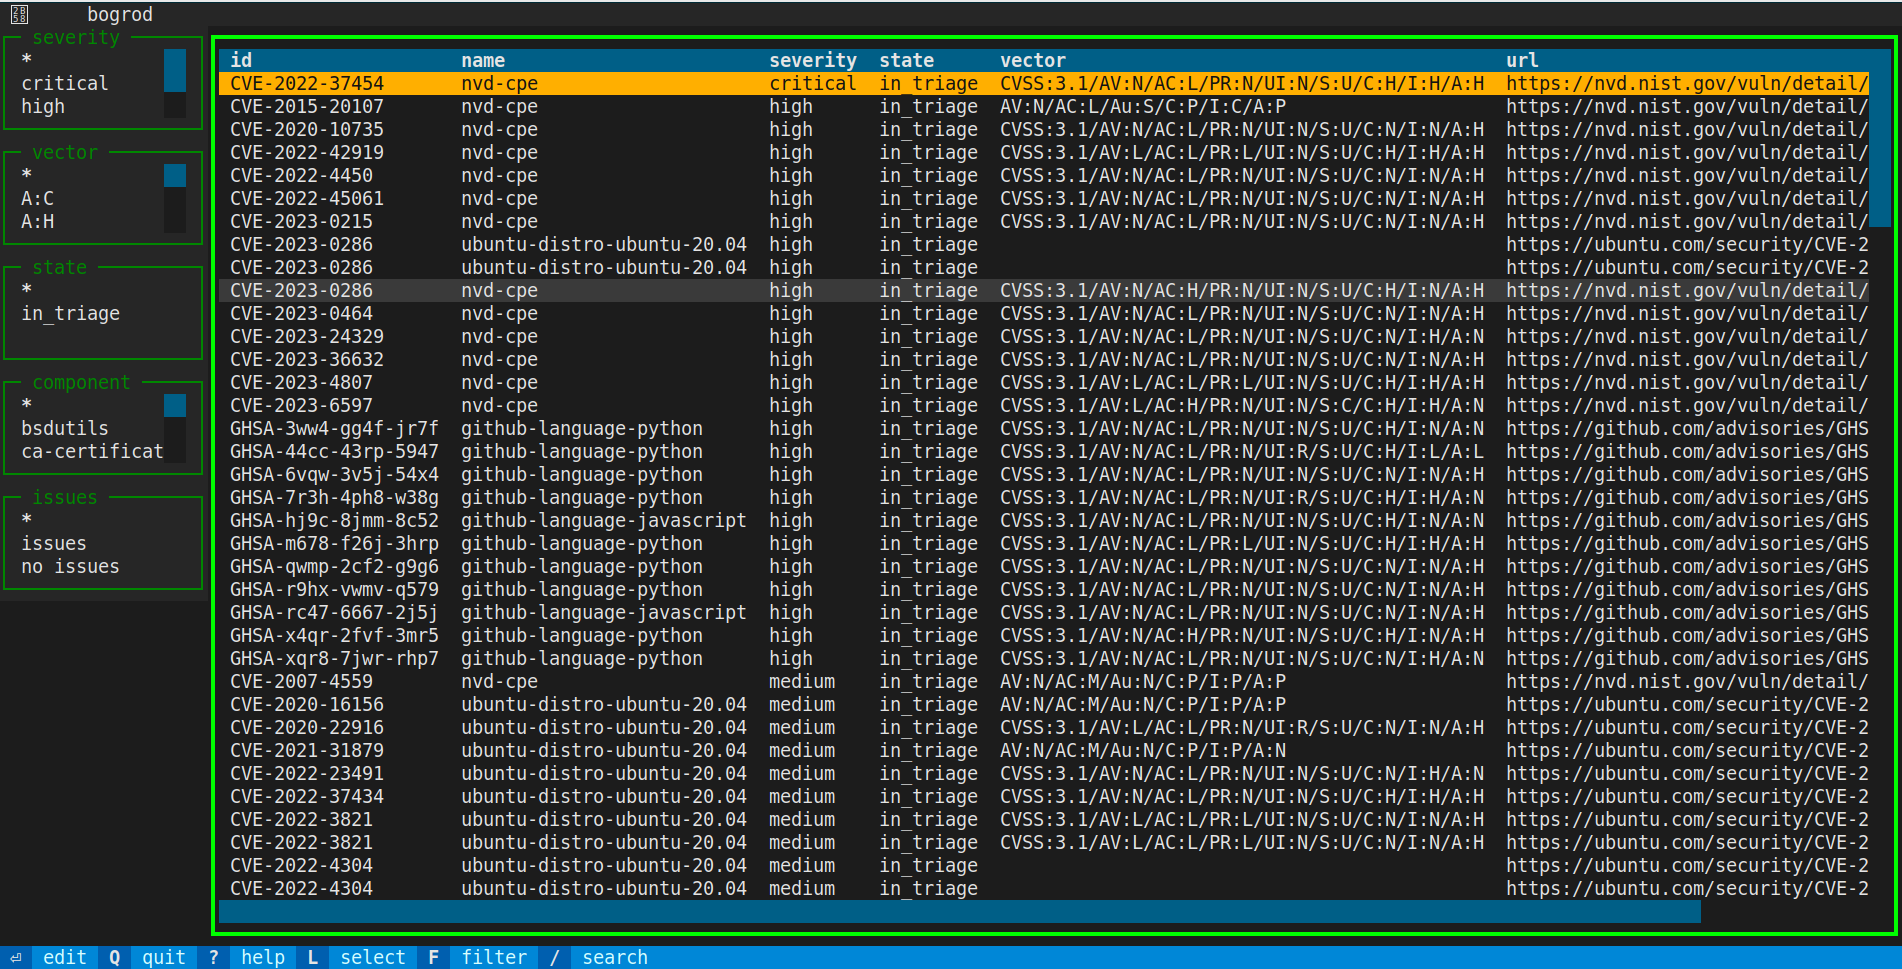
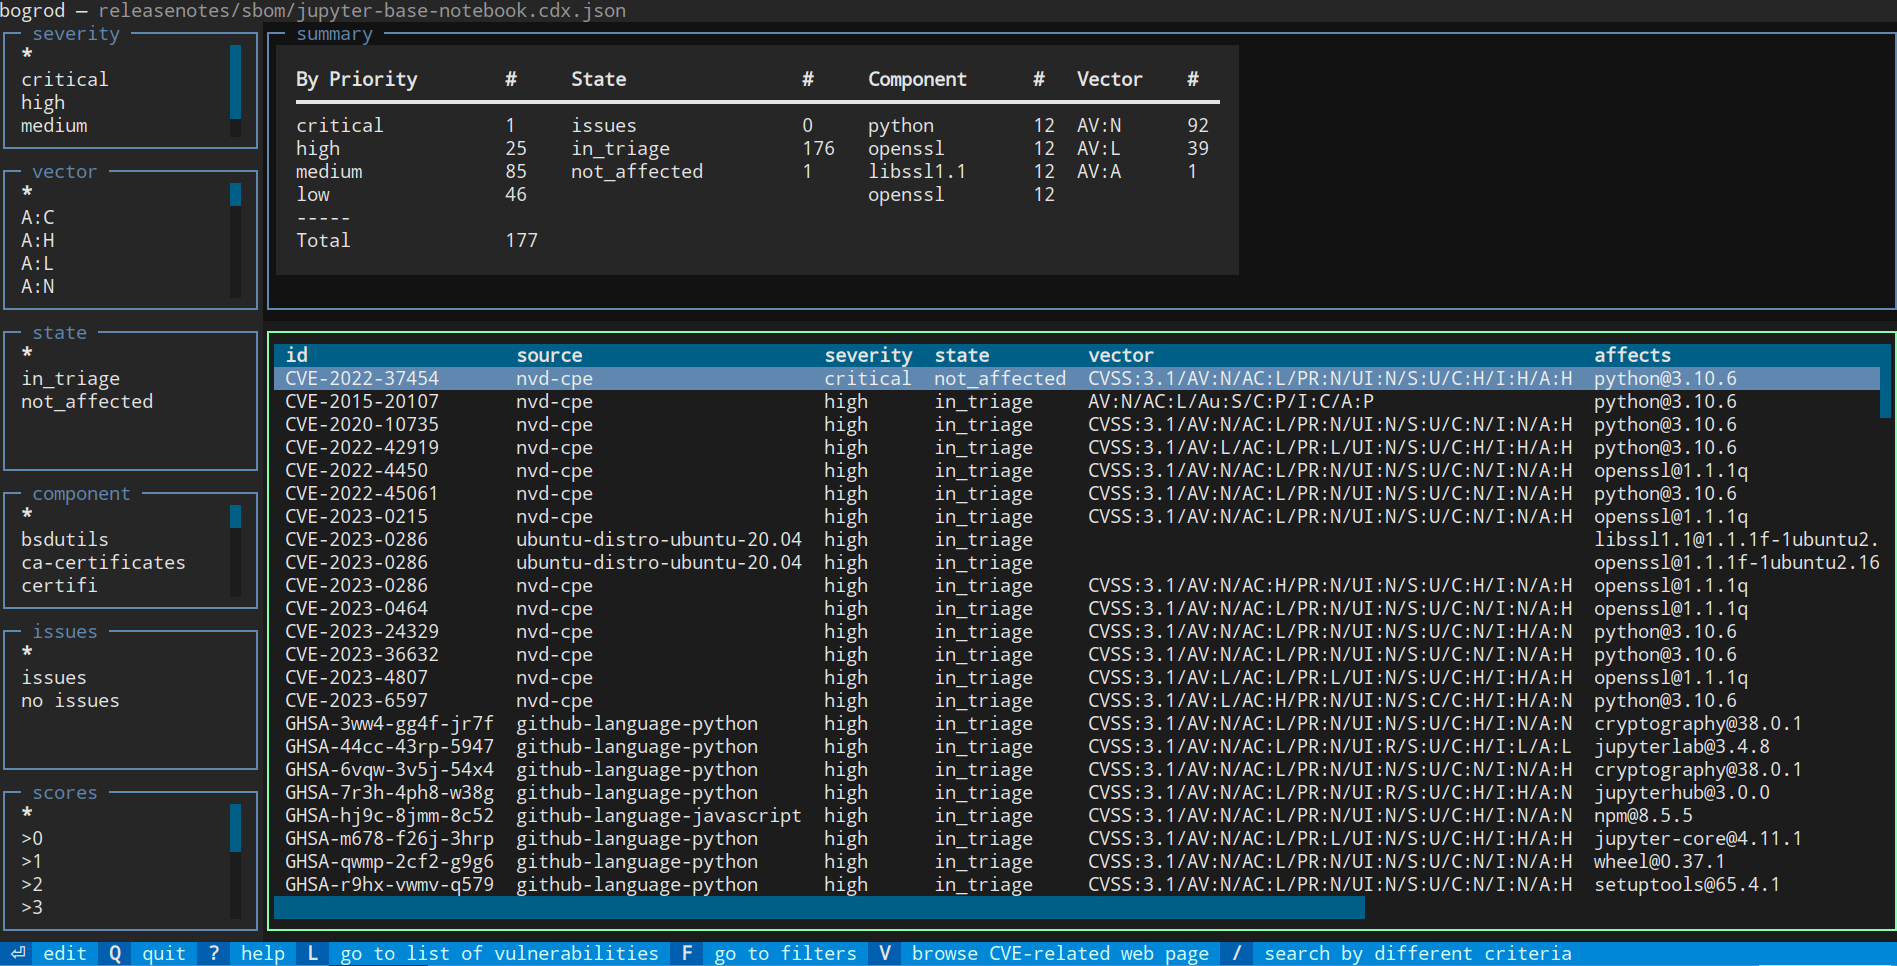
update docs
- reflect latest changes

diff --git a/README.md b/README.md
@@ -6,7 +6,7 @@
 bogrod
 ======
 
-Manage vulnerabilities analysis (VEX/SBOM) in cyclonedx format like source code.
+Manage vulnerabilities SBOM and VEX analysis like source code.
 
 Why?
 ----
@@ -105,7 +105,7 @@ VEX analysis information.
 
         $ syft jupyter/base-notebook:ubuntu-20.04 --file releasenotes/sbom/jupyter-base-notebook.syft.json --output json
 
-2. Find VEX information
+2. Find detailed information for each vulnerability
 
         # we output two grype reports 
         # -- this first report includes detailed VEX information
@@ -118,8 +118,8 @@ VEX analysis information.
         # -- bogrod automatically uses the .grype report to provide additional information for each vulnerability 
         $ bogrod --work -S releasenotes/sbom/jupyter-base-notebook.cdx.json --vex-file releasenotes/sbom/vex.yaml --update-vex --merge-vex 
 
-Note that bogrod will automatically find the .vex and .grype files corresponding to the .cdx file,
-if these are not specified.
+Note that bogrod will automatically find the related .vex, .cdx, .grype files, if named according to
+the conventions described above.
 
 Working with vulnerabilities
 ----------------------------
@@ -132,22 +132,58 @@ so that you can filter, select and analyze each one in turn.
 
 ![bogrod demo](resources/demo1.png)
 
-    Press Enter to show the details of the vulnerability
+* Press Enter to show the details of the vulnerability.
+* Press V to show the vulnerability in its related NVD or CVE web page.
+* Save analysis and quit by pressing `Ctrl-C` or `Q`.
 
 ![bogrod demo](resources/demo2.png)
 
-    Save analysis and quit by pressing Ctrl-C or Q
+* Filter the list of vulnerabilites by the various quick criteria on the left by selecting
+  one of the listed values. Press `F` and use the `tab` key to cycle through the options.
+* Use the `/` key to enter a search term. Search terms are of the form `<column>:<value>`
+  where *column* is one of the columns in the table and *value* is the value to search for.
 
-![bogrod demo](resources/demo3.jpg)
+![bogrod demo](resources/demo3.png)
 
+* Edit multiple vulnerabilities at marking related entries using ctrl+space.
+* Then select any one of the marked entries to enter your analysis and press
+  `Ctrl+S` to save. All marked entries will be updated with the same analysis.
+
+![bogrod demo](resources/demo4.png)
+
+* Select or edit (`enter`) any vulnerability and press `V` to open the respective CVE   
+  or NVD page in your browser. This allows for a very smooth workflow because you don't
+  have to copy/paste the CVE-# to your browser.
+
+![bogrod demo](resources/demo5.png)
+
+* While editing a vulnerability, store the analysis as a template by pressing `Ctrl+T`.
+  This will store the analysis as a template for the component or artifact.
+* Apply a template by pressing `T` and selecting the template to apply.
+    * For every component analyzed, bogrod automatically creates a template by the name
+      of the component, making it easy to apply the same analysis to related vulnerabilities.
+
+![bogrod demo](resources/demo6.png)
+
+* Uploading vulnerabilities to a vulnerabilities management platform, such as [elementaris
+  by Essentx](https://github.com/essentxag/elementaris-docu), is straight forward.
+
+  $ bogrod --upload elementaris releasenotes/sbom/jupyter-base-notebook.cdx.json
+
+* The service automatically returns a report based on its own analysis. In case of  
+  issues found, the affected vulnerabilities will be marked by including a `*` postfix
+  to its state
+* Press enter to show the details of the vulnerability and the report from the service.
+
+![bogrod demo](resources/demo7.png)
 
 Working with multiple images
 ----------------------------
 
 Sometimes we may have the artefacts built from the same source image and thus
 find similar vulnerabilities. It would be a waste of time to keep analysing the
-same vulnerability multiple times. Therefore, we can combine bogrod's vex information
-(a yaml file) for multiple images, while bogrod keeps track of where each
+same vulnerability multiple times. Therefore, we can combine vex information
+stored by bogrod (a yaml file) for multiple images. bogrod keeps track of where each
 vulnerabillity came from.
 
 To simplify this process, create a .bogrod file that references each image's
@@ -181,7 +217,7 @@ Vulnerability Exploit information (VEX)
 ---------------------------------------
 
 Bogrod can extract vulnerability exploit information from
-the release notes or from a vex.yaml file (--vex-file)::
+the vex.yaml file (--vex-file)::
 
     # vex.yaml
     CVE-2022-999999:
@@ -320,30 +356,12 @@ or more vulnerabilities are in state in_triage or exploitable, the pipeline will
 
         bogrod --fail-on-issues releasenotes/sbom/jupyter-base-notebook.cdx.json
 
-Release Notes Format
---------------------
-
-[deprecated] This feature will be removed in a future version, in favor of templated reporting options.
-
-The release notes format is simply a YAML file with a security section:
-
-    # notes.yaml
-    # security:
-    #  - <CVE#> severity status [comment]
-    security:
-    - CVE-2022-999999 high open will fix in next release 
-    - CVE-2022-999989 high fixed will fix in next release
-
-This is a superset of the release notes format used by reno, the release notes tools.
-
-
 Pipeline with grype and reno
 ----------------------------
 
-1. reno => create release notes
+1. syft => scan image and create sbom
 2. grype => scan image and create sbom
 3. bogrod => update release notes with vulns found in sbom
-4. reno report => build release notes
 
 Tools
 -----
@@ -373,20 +391,22 @@ Specification
 * browser https://cyclonedx.org/docs/1.4/json/
 * jsonschema https://github.com/CycloneDX/specification/releases
 
+Commercial Support
+------------------
+
+Commercial training and support for use of bogrod is available from productaize.
+Please contact us at info at productaize.io for more information.
+
 What's in a name?
 -----------------
 
-I was looking for the name of a trusted secret keeper of sorts. A fan of Harry Potter's
-I found some character from Gringotts Wizarding Bank would be a great fit.
+I was looking for the name of a trusted secret keeper of sorts. An early fan of Harry Potter's
+I found some character from Gringotts Wizarding Bank would be a great fit. *Wikipedia* has this to say about Bogrod:
+*Bogrod, a goblin, is one of the counter staff (what would be tellers in a Muggle bank) at Gringotts Wizarding Bank in
+Diagon Alley.*
 
-*Wikipedia* has this to say about Bogrod:
+Credits:
 
-<a title="Eliedion, CC BY-SA 4.0 &lt;https://creativecommons.org/licenses/by-sa/4.0&gt;, via Wikimedia Commons" href="https://commons.wikimedia.org/wiki/File:Audio-animatronic_of_Harry_Potter_and_the_Escape_from_Gringotts.JPG"><img width="64" alt="Audio-animatronic of Harry Potter and the Escape from Gringotts" src="https://upload.wikimedia.org/wikipedia/commons/thumb/7/7b/Audio-animatronic_of_Harry_Potter_and_the_Escape_from_Gringotts.JPG/64px-Audio-animatronic_of_Harry_Potter_and_the_Escape_from_Gringotts.JPG"></a>
-Bogrod, a goblin, is one of the counter staff (what would be tellers in a Muggle bank) at Gringotts Wizarding Bank in
-Diagon Alley.
-
-Source: https://en.wikibooks.org/wiki/Muggles%27_Guide_to_Harry_Potter/Characters/Bogrod
-Image by: Eliedion, CC BY-SA
-4.0 https://commons.wikimedia.org/wiki/File:Audio-animatronic_of_Harry_Potter_and_the_Escape_from_Gringotts.JPG"><img
-width="64" alt="Audio-animatronic of Harry Potter and the Escape from Gringotts"
-src="https://upload.wikimedia.org/wikipedia/commons/thumb/7/7b/Audio-animatronic_of_Harry_Potter_and_the_Escape_from_Gringotts.JPG/64px-Audio-animatronic_of_Harry_Potter_and_the_Escape_from_Gringotts.JPG
+* Wikipedia: https://en.wikibooks.org/wiki/Muggles%27_Guide_to_Harry_Potter/Characters/Bogrod
+* Image by: Eliedion, CC BY-SA
+  4.0 https://commons.wikimedia.org/wiki/File:Audio-animatronic_of_Harry_Potter_and_the_Escape_from_Gringotts.JPG">
